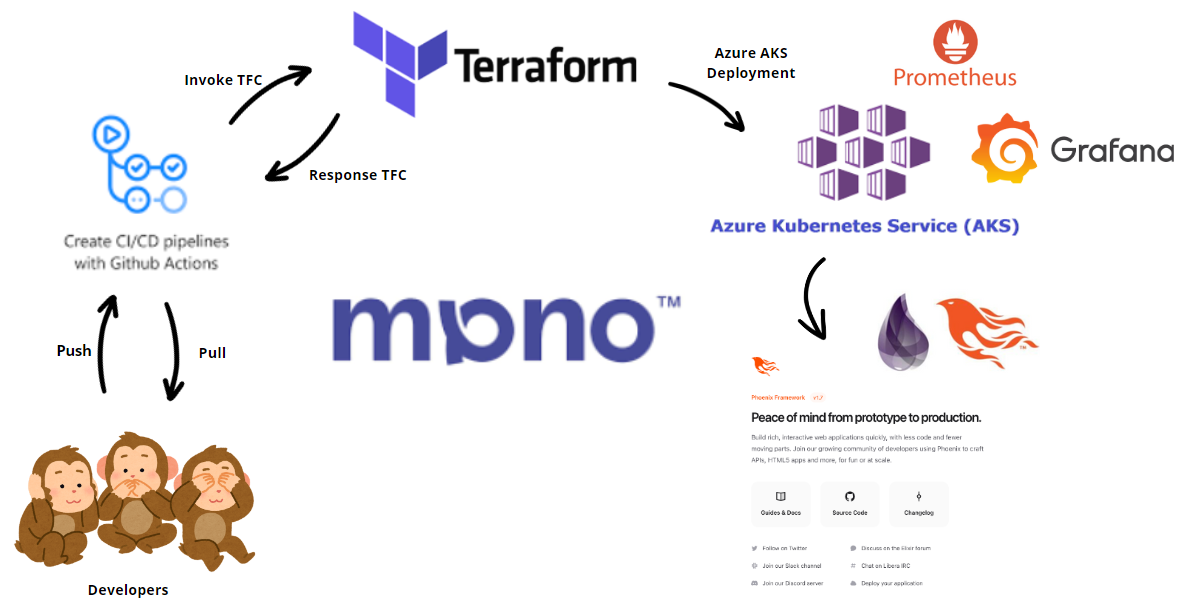
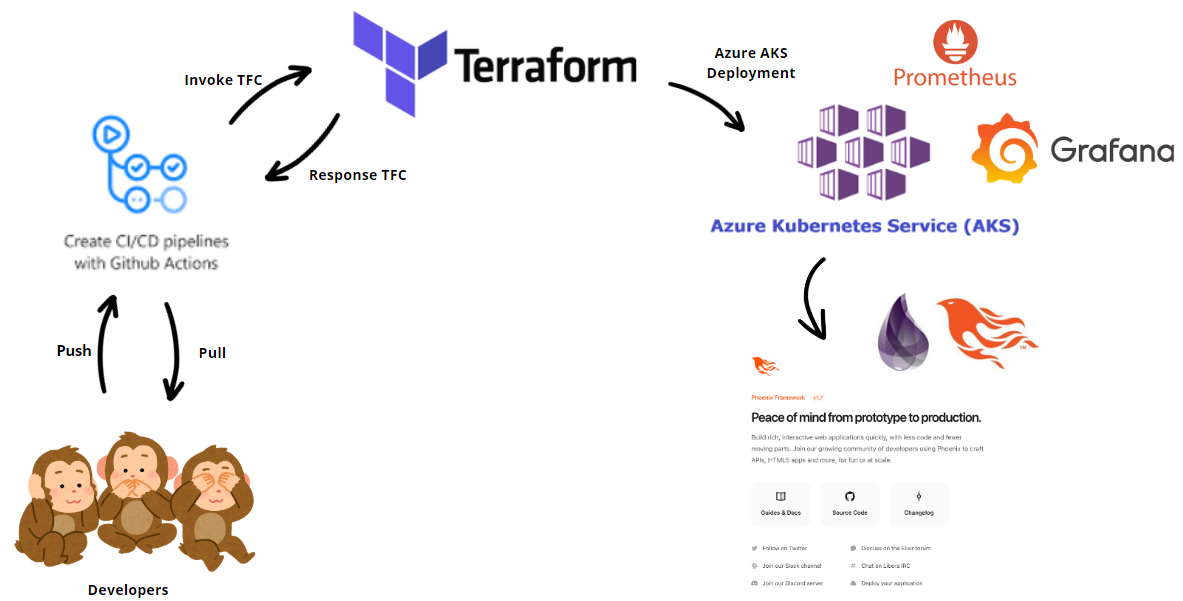
Terminado

Changed region(s): [[0.2739, 0.4792, 0.5782, 0.629]]

diff --git a/README.md b/README.md
@@ -1,14 +1,10 @@
 
 # 🐒 DevOps-Project -🐒
 
-
-<img src="https://latamlist.com/wp-content/uploads/2023/08/mono.png" alt="Logo mono" width="300"/>
-
 ## Descripción del Desafío 🐒
  Para este desafío se creó un pipeline de CI/CD que permite desplegar un clúster de Kubernetes en Azure, utilizando una herramienta de Infrastructure as Code (IaC) como Terraform. Se utilizó Grafana y Prometheus para la monitorización de la aplicación, y se implementó el envío de notificaciones por correo electrónico mediante Terraform. Este pipeline también incluye el despliegue de una aplicación de ejemplo desarrollada con Elixir y Phoenix. 
 El proceso se descompuso en pasos específicos, donde se explican las decisiones técnicas consideradas, la implementación realizada y cómo se ejecutó cada fase. La relación entre las herramientas utilizadas en este proyecto se presenta en la siguiente imagen.
 ![Arquitectura](./media/diagrama.png)
-
 
 
 | Paso                                               | Descripción                                                                                                                                                                                                                                                                                   |
